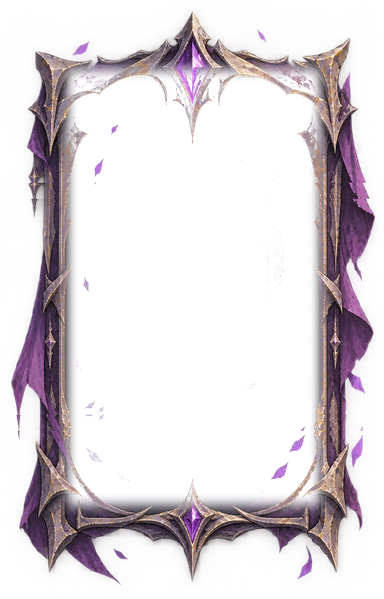
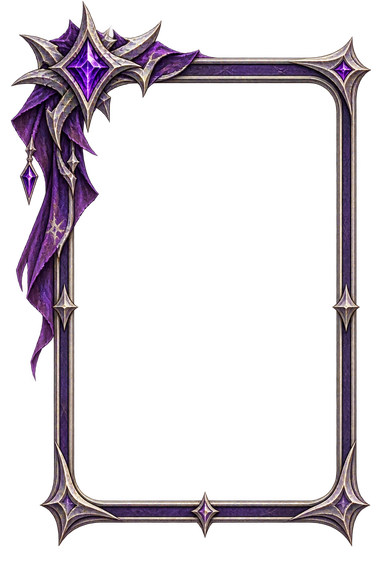
New painted frames: thin bars with a corner medallion; the cost gem is its jewel
The two new designs (art/frames/gold_src.png, purple_src.png) are already
transparent inside; build_frames.py finds the opening by scanning the
alpha, resizes so it has the card ratio and writes geometry.json with the
opening and the medallion centre. Both renderers map the opening onto the
card edge and move the cost gem onto the medallion. Paged grids keep a
little more room above and below for the medallion.

Claude-Session: https://claude.ai/code/session_016oSG87kzgjESJLEGKvgPZS

diff --git a/ios/Ruinaccord/Views/CardViews.swift b/ios/Ruinaccord/Views/CardViews.swift
@@ -90,9 +90,11 @@ struct CardView: View {
                     .position(x: 5 * em + (0.5 - (g.x0 + g.x1) / 2) * w, y: 7.8 * em + (0.5 - (g.y0 + g.y1) / 2) * h)
                     .allowsHitTesting(false)
             }
-            // The gems ride on the corners of the card, a little past its edge.
+            // The gems ride on the corners of the card, a little past its edge; on a framed card the cost gem is the
+            // jewel of the frame's medallion.
+            let medal = framed ? (leg ? FrameGeo.gold : FrameGeo.purple).medal : CGPoint(x: 0.65, y: 0.65)
             GemView(kind: .cost, value: cost, size: 2.9 * em, numberColor: cost < card.cost ? Theme.ready : nil)
-                .offset(x: -0.8 * em, y: -0.8 * em)
+                .offset(x: (medal.x - 1.45) * em, y: (medal.y - 1.45) * em)
                 .frame(maxWidth: .infinity, alignment: .topLeading)
             if card.isMinion {
                 HStack {
@@ -109,11 +111,14 @@ struct CardView: View {
     }
 }
 
-/// Where the opening sits in a painted frame image, as fractions (printed by art/frames/build_frames.py).
+/// Where the opening sits in a painted frame image, as fractions, and the medallion's centre relative to the
+/// opening (art/frames/geometry.json, written by build_frames.py).
 private struct FrameGeo {
-    let aspect: CGFloat, x0: CGFloat, x1: CGFloat, y0: CGFloat, y1: CGFloat
-    static let gold = FrameGeo(aspect: 768 / 1075, x0: 0.1953, x1: 0.8138, y0: 0.1395, y1: 0.8288)
-    static let purple = FrameGeo(aspect: 768 / 1082, x0: 0.1758, x1: 0.8333, y0: 0.1155, y1: 0.8438)
+    let aspect: CGFloat, x0: CGFloat, x1: CGFloat, y0: CGFloat, y1: CGFloat, mx: CGFloat, my: CGFloat
+    static let gold = FrameGeo(aspect: 0.6611, x0: 0.1846, x1: 0.8877, y0: 0.1601, y1: 0.8852, mx: 0.1542, my: -0.0485)
+    static let purple = FrameGeo(aspect: 0.6675, x0: 0.1934, x1: 0.8760, y0: 0.1445, y1: 0.8554, mx: 0.0715, my: -0.0357)
+    /// The medallion's centre in card units (a 10 x 15.6 em card with the opening a quarter em in).
+    var medal: CGPoint { CGPoint(x: mx * 9.5 + 0.25, y: my * 14.82 + 0.39) }
 }
 
 private struct ArtShape: Shape {

diff --git a/beta/index.html b/beta/index.html
@@ -155,8 +155,11 @@ button:focus-visible{outline:2px solid var(--gold);outline-offset:2px}
    middle). Its opening sits on the card's edge (a quarter em in), so the ornaments hang outside and cover neither
    the art nor the rules; sizes come from the opening geometry art/frames/build_frames.py prints. */
 .card.leg::before,.card.uniq::before{content:"";position:absolute;background:url(img/frame_gold.png) center/100% 100% no-repeat;pointer-events:none;z-index:1;
-  width:15.36em;height:21.5em;left:-2.75em;top:-2.61em}
-.card.uniq::before{background-image:url(img/frame_purple.png);width:14.45em;height:20.36em;left:-2.29em;top:-1.97em}
+  width:13.51em;height:20.44em;left:-2.24em;top:-2.88em}
+.card.uniq::before{background-image:url(img/frame_purple.png);width:13.92em;height:20.85em;left:-2.44em;top:-2.62em}
+/* The cost gem sits on the frame's medallion (its own em is 1.2 card em, width 2.4 of them). */
+.card.leg .cost{left:0.23em;top:-1.47em}
+.card.uniq .cost{left:-0.43em;top:-1.32em}
 .card.md{font-size:10.8px}.card.big{font-size:14px}
 .card .art{position:absolute;inset:0;border-radius:.62em;overflow:hidden;background:radial-gradient(circle at 50% 28%,#5a4636,#120d16 72%)}
 .card.s .art{background:radial-gradient(circle at 50% 28%,#3d2f6e,#100a20 72%)}

diff --git a/src/game.html b/src/game.html
@@ -136,8 +136,11 @@ button:focus-visible{outline:2px solid var(--gold);outline-offset:2px}
    middle). Its opening sits on the card's edge (a quarter em in), so the ornaments hang outside and cover neither
    the art nor the rules; sizes come from the opening geometry art/frames/build_frames.py prints. */
 .card.leg::before,.card.uniq::before{content:"";position:absolute;background:url(img/frame_gold.png) center/100% 100% no-repeat;pointer-events:none;z-index:1;
-  width:15.36em;height:21.5em;left:-2.75em;top:-2.61em}
-.card.uniq::before{background-image:url(img/frame_purple.png);width:14.45em;height:20.36em;left:-2.29em;top:-1.97em}
+  width:13.51em;height:20.44em;left:-2.24em;top:-2.88em}
+.card.uniq::before{background-image:url(img/frame_purple.png);width:13.92em;height:20.85em;left:-2.44em;top:-2.62em}
+/* The cost gem sits on the frame's medallion (its own em is 1.2 card em, width 2.4 of them). */
+.card.leg .cost{left:0.23em;top:-1.47em}
+.card.uniq .cost{left:-0.43em;top:-1.32em}
 .card.md{font-size:10.8px}.card.big{font-size:14px}
 .card .art{position:absolute;inset:0;border-radius:.62em;overflow:hidden;background:radial-gradient(circle at 50% 28%,#5a4636,#120d16 72%)}
 .card.s .art{background:radial-gradient(circle at 50% 28%,#3d2f6e,#100a20 72%)}

diff --git a/ios/Ruinaccord/Views/Shell.swift b/ios/Ruinaccord/Views/Shell.swift
@@ -87,8 +87,8 @@ struct PagedGrid<Item: Identifiable, Cell: View>: View {
     @State private var page = 0
     @Environment(GameVM.self) private var vm
 
-    /// Room kept above and below the rows for gems and badges that hang over the card edges.
-    private let bleed: CGFloat = 9
+    /// Room kept above and below the rows for gems, badges and frame medallions that hang over the card edges.
+    private let bleed: CGFloat = 16
     private let footer: CGFloat = 18
 
     var body: some View {

diff --git a/art/frames/build_frames.py b/art/frames/build_frames.py
@@ -1,46 +1,41 @@
 #!/usr/bin/env python3
-"""Card frames from art/frames/frames_src.png (gold Legendary frame left, purple one-copy Epic frame right).
+"""Card frames from art/frames/gold_src.png (Legendary) and purple_src.png (one-copy class Epic): a thin bar
+with a medallion at the top-left corner, transparent in the middle already.
 
-The middle of each frame is cut out by brightness (dark interior -> transparent, bright ornament -> opaque)
-inside the inner opening, then two straight-edge bands are duplicated so the OPENING has the card's 10:15.6
-ratio: the frame is drawn with its opening on the card's edge, the ornaments hanging outside (the printed
-geometry goes into CardView.swift / the .card.leg CSS). Writes ios/Ruinaccord/Assets.xcassets/Frames/frame_*.imageset/frame_*.png (512 wide) and
-img/frame_*.png (384 wide). Needs Pillow and numpy:  python3 -m venv .venv && .venv/bin/pip install pillow numpy
+Each is resized vertically so the inner opening has the card's 10:15.6 ratio, and the opening (found by
+scanning the alpha from the centre) plus the medallion's centre are written to art/frames/geometry.json; the
+renderers map the opening onto the card's edge and put the cost gem on the medallion. Writes
+ios/Ruinaccord/Assets.xcassets/Frames/frame_*.imageset/frame_*.png (512 wide) and img/frame_*.png (384 wide).
+Needs Pillow and numpy:  python3 -m venv .venv && .venv/bin/pip install pillow numpy
 """
-import pathlib
-from PIL import Image, ImageFilter
+import json, pathlib
+from PIL import Image
 import numpy as np
 
 ROOT = pathlib.Path(__file__).resolve().parents[2]
-SRC = Image.open(ROOT / "art/frames/frames_src.png").convert("RGBA")
-W, H = SRC.size
-RATIO = 10 / 15.6
+RATIO = 15.6 / 10
+# The medallion's centre in each source, in pixels (the cost gem sits there).
+MEDAL = {"gold": (300, 192), "purple": (248, 183)}
+geo = {}
 
-def process(name, half, rect, lo, hi, bands):
-    im = SRC.crop(half)
-    a = np.array(im).astype(np.float32)
-    lum = 0.299 * a[..., 0] + 0.587 * a[..., 1] + 0.114 * a[..., 2]
-    x0, y0, x1, y1 = rect
-    cut = np.clip((lum - lo) / (hi - lo), 0, 1)
-    mask = np.zeros_like(lum); mask[y0:y1, x0:x1] = 1
-    mask = np.array(Image.fromarray((mask * 255).astype(np.uint8)).filter(ImageFilter.GaussianBlur(10))).astype(np.float32) / 255
-    a[..., 3] = a[..., 3] * (1 - mask) + a[..., 3] * cut * mask
+for name in ("gold", "purple"):
+    im = Image.open(ROOT / f"art/frames/{name}_src.png").convert("RGBA")
+    a = np.array(im); al = a[..., 3] > 120
+    H, W = al.shape
+    xs = np.where(al[H // 2])[0]; x0, x1 = int(xs[xs < W // 2].max()) + 1, int(xs[xs > W // 2].min())
+    ys = np.where(al[:, (x0 + x1) // 2])[0]; y0, y1 = int(ys[ys < H // 2].max()) + 1, int(ys[ys > H // 2].min())
+    # alpha never quite reaches 255 in the source; make the solid parts solid
     a[..., 3] = np.where(a[..., 3] >= 248, 255, a[..., 3])
-    arr = a.astype(np.uint8)
-    w, h = arr.shape[1], arr.shape[0]
-    extra = int(round((x1 - x0) / RATIO)) - (y1 - y0); per = extra // len(bands)
-    pieces, prev = [], 0
-    for i, y in enumerate(bands):
-        pieces.append(arr[prev:y]); n = per if i < len(bands) - 1 else extra - per * (len(bands) - 1)
-        pieces.append(arr[y - n // 2:y - n // 2 + n]); prev = y
-    pieces.append(arr[prev:])
-    out = Image.fromarray(np.concatenate(pieces, axis=0))
-    ow, oh = out.size
-    print(f"{name}: image {ow}x{oh}, opening x {x0/ow:.4f}..{x1/ow:.4f}  y {y0/oh:.4f}..{(y1+extra)/oh:.4f}")
+    im = Image.fromarray(a)
+    f = (x1 - x0) * RATIO / (y1 - y0)
+    H2 = int(round(H * f)); im = im.resize((W, H2), Image.LANCZOS)
+    y0, y1 = y0 * f, y1 * f
+    mx, my = MEDAL[name][0], MEDAL[name][1] * f
+    geo[name] = {"aspect": W / H2, "x0": x0 / W, "x1": x1 / W, "y0": y0 / H2, "y1": y1 / H2,
+                 "mx": (mx - x0) / (x1 - x0), "my": (my - y0) / (y1 - y0)}
     ios = ROOT / f"ios/Ruinaccord/Assets.xcassets/Frames/frame_{name}.imageset/frame_{name}.png"
-    out.resize((512, int(512 / RATIO)), Image.LANCZOS).save(ios, optimize=True)
-    out.resize((384, int(384 / RATIO)), Image.LANCZOS).save(ROOT / f"img/frame_{name}.png", optimize=True)
-    print(name, out.size, "->", ios.name, f"img/frame_{name}.png")
+    im.resize((512, int(round(512 * H2 / W))), Image.LANCZOS).save(ios, optimize=True)
+    im.resize((384, int(round(384 * H2 / W))), Image.LANCZOS).save(ROOT / f"img/frame_{name}.png", optimize=True)
+    print(name, f"{W}x{H2}", {k: round(v, 4) for k, v in geo[name].items()})
 
-process("gold", (0, 0, W // 2, H), (150, 150, 625, 840), 105, 170, [330, 720])
-process("purple", (W // 2, 0, W, H), (135, 125, 640, 855), 80, 140, [330, 720])
+(ROOT / "art/frames/geometry.json").write_text(json.dumps(geo, indent=1))
